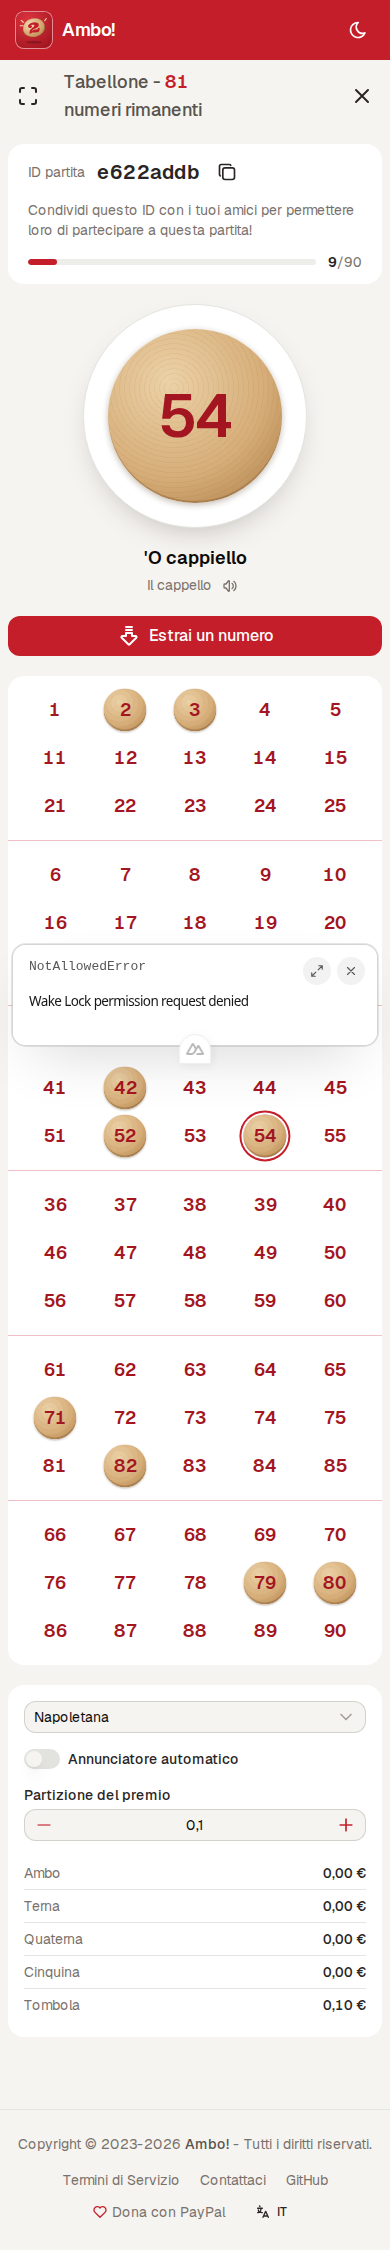
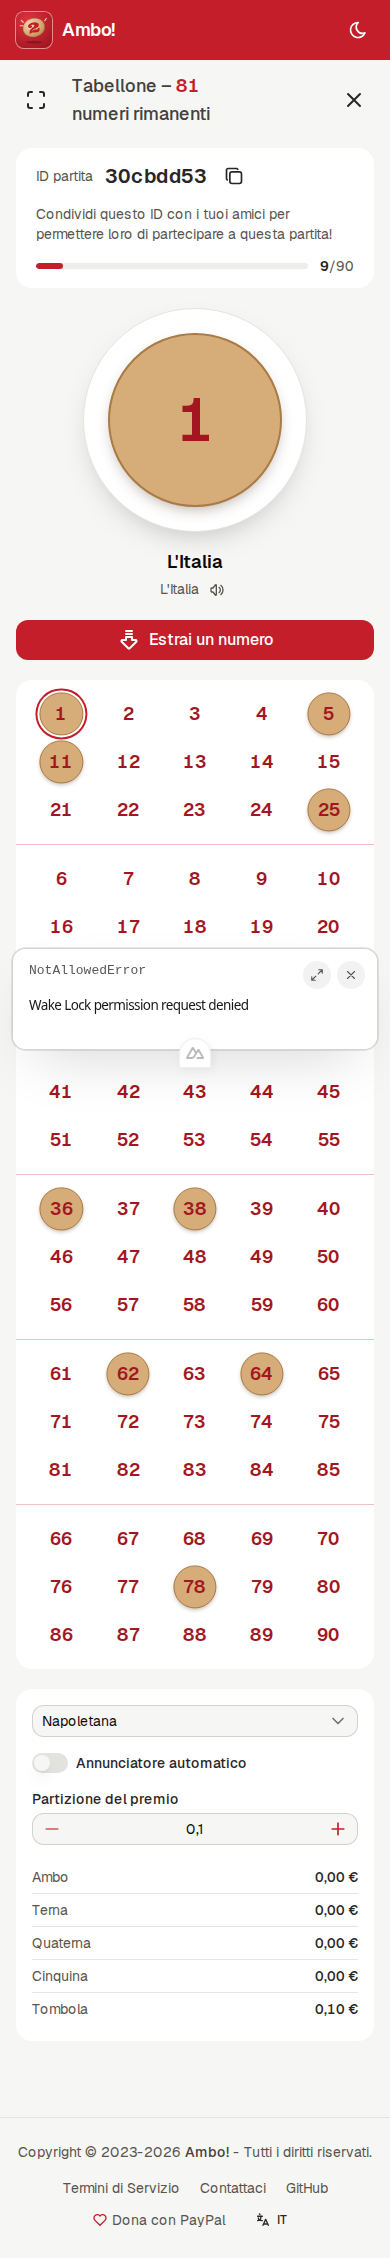
fix: flat beech tokens, neutral ground, contrast and mobile gutters

diff --git a/app/assets/main.css b/app/assets/main.css
@@ -27,7 +27,6 @@
   --color-tombola-950: #3d070b;
 
   /* Beech wood of the numeretti */
-  --color-legno-light: #ecd2a8;
   --color-legno: #d6ad78;
   --color-legno-dark: #a97a45;
 }
@@ -35,14 +34,14 @@
 :root {
   --ui-primary: var(--ui-color-primary-600);
 
-  --ui-text-dimmed: var(--ui-color-neutral-400);
-  --ui-text-muted: var(--ui-color-neutral-500);
-  --ui-text-toned: var(--ui-color-neutral-600);
+  --ui-text-dimmed: var(--ui-color-neutral-500);
+  --ui-text-muted: var(--ui-color-neutral-600);
+  --ui-text-toned: var(--ui-color-neutral-700);
   --ui-text: var(--ui-color-neutral-800);
   --ui-text-highlighted: var(--ui-color-neutral-950);
   --ui-text-inverted: var(--ui-color-neutral-50);
 
-  --ui-bg: #f6f4f0;
+  --ui-bg: #f6f6f4;
   --ui-bg-elevated: #ffffff;
   --ui-bg-muted: #ededea;
   --ui-bg-accented: #e2e2de;
@@ -83,7 +82,7 @@
   --ui-border-muted: #232321;
   --ui-border-inverted: var(--ui-color-neutral-50);
 
-  --print: var(--ui-color-primary-300);
+  --print: var(--ui-color-primary-400);
   --print-line: rgb(228 103 109 / 0.3);
   --hatch: rgb(228 103 109 / 0.1);
   --ring-latest: var(--ui-color-primary-400);
@@ -109,12 +108,11 @@
   border-color: var(--print-line);
 }
 
-/* A turned beech token seen from the top: soft light, faint growth rings, darker edge */
+/* A beech token: flat wood colour, a darker beech edge, a soft cast shadow */
 .legno {
-  background:
-    repeating-radial-gradient(circle at 38% 34%, transparent 0 4px, rgb(120 72 30 / 0.06) 4px 5px),
-    radial-gradient(circle at 35% 30%, var(--color-legno-light), var(--color-legno) 58%, var(--color-legno-dark));
-  box-shadow: inset 0 -2px 0 rgb(90 52 20 / 0.25), 0 2px 6px rgb(60 35 10 / 0.3);
+  background: var(--color-legno);
+  border: 2px solid var(--color-legno-dark);
+  box-shadow: 0 6px 16px -6px rgb(60 35 10 / 0.45);
 }
 
 /* Number states, shared by tabellone and cartelle:
@@ -139,10 +137,9 @@
   aspect-ratio: 1;
   translate: -50% -50%;
   border-radius: 9999px;
-  background:
-    repeating-radial-gradient(circle at 38% 34%, transparent 0 4px, rgb(120 72 30 / 0.06) 4px 5px),
-    radial-gradient(circle at 35% 30%, var(--color-legno-light), var(--color-legno) 58%, var(--color-legno-dark));
-  box-shadow: inset 0 -2px 0 rgb(90 52 20 / 0.25), 0 1px 2px rgb(60 35 10 / 0.3);
+  background: var(--color-legno);
+  border: 1.5px solid var(--color-legno-dark);
+  box-shadow: 0 2px 4px -1px rgb(60 35 10 / 0.35);
   z-index: -1;
   scale: 0;
   transition: scale 0.4s cubic-bezier(0.16, 1, 0.3, 1);
@@ -159,7 +156,7 @@
 }
 
 .numero[data-state="latest"]::before {
-  box-shadow: inset 0 -2px 0 rgb(90 52 20 / 0.25), 0 0 0 2px var(--ui-bg-elevated), 0 0 0 4px var(--ring-latest);
+  box-shadow: 0 0 0 2px var(--ui-bg-elevated), 0 0 0 4px var(--ring-latest);
 }
 
 @media (prefers-reduced-motion: reduce) {

diff --git a/app/pages/cards.vue b/app/pages/cards.vue
@@ -124,7 +124,7 @@ function checkNumber(num: number, check = true) {
       <NuFieldGroup class="w-full">
         <NuInputNumber v-model="searchNumber" size="lg" :min="1" :step="1" :max="90" class="grow"
                        :aria-label="$t('cards.search')" @change="() => numberFound = undefined" />
-        <NuButton icon="i-tabler-search" size="lg" color="neutral" :label="$t('cards.search')" @click="checkNumber(searchNumber)" />
+        <NuButton icon="i-tabler-search" size="lg" color="neutral" variant="outline" :label="$t('cards.search')" @click="checkNumber(searchNumber)" />
       </NuFieldGroup>
       <i18n-t v-if="numberFound !== undefined" class="text-center text-sm" :class="[numberFound ? 'text-success' : 'text-error']"
               :keypath="`cards.${numberFound ? 'found' : 'notFound'}`" tag="p" role="status">

diff --git a/app/app.vue b/app/app.vue
@@ -25,7 +25,7 @@ useHead({
   <NuApp :locale="locales[locale]" :tooltip="{ delayDuration: 300 }"
          :toaster="{ duration: 2000, position: 'bottom-right' }">
     <NuxtLayout name="default">
-      <main class="flex grow flex-col p-2 md:p-4">
+      <main class="flex grow flex-col px-4 py-3 md:p-4">
         <NuxtPage />
       </main>
     </NuxtLayout>

diff --git a/.impeccable/surfaces/app-pages-board-vue.md b/.impeccable/surfaces/app-pages-board-vue.md
@@ -13,12 +13,12 @@ Whole app (home, board, cards, info, error). Mode: Operate (host runs the board 
 
 THESIS: A calm, contemporary tombola app: the game's own objects (the 3x9 cartella grid, the round number token) are the only theme; everything else is quiet product UI. Refuses both the folk-ornament costume (carretto round, rejected by the user as dated) and a generic bingo app.
 
-OWN-WORLD: Neutral warm-grey ground (#f6f6f4 light, #0f0f0e dark), white or near-black elevated panels with 1px hairlines and 16px radius, tombola red #c41e2a as the brand: red header bar, primary buttons, progress, and the red print of cartelle and tabellone (numerals and grid lines); drawn/marked numbers are turned beech-wood tokens with red numerals. Geist for everything, semibold tabular numerals. Empty cartella cells carry a faint red diagonal hatch.
+OWN-WORLD: Neutral warm-grey ground (#f6f6f4 light, #0f0f0e dark), white or near-black elevated panels with 1px hairlines and 16px radius, tombola red #c41e2a as the brand: red header bar, primary buttons, progress, and the red print of cartelle and tabellone (numerals and grid lines); drawn/marked numbers are flat beech tokens (#d6ad78, darker beech edge, soft cast shadow) with red numerals; no faked grain. Logo: .impeccable/mocks/logo/1a-ultra.svg, approved by the user ("go with 1A"), ships as public/logo.svg. Geist for everything, semibold tabular numerals. Empty cartella cells carry a faint red diagonal hatch.
 
 STORY: The host reads the drawn number and its smorfia line from across the room, sees progress and prize split; players mark their cartelle and see the last five draws.
 
 FIRST VIEWPORT: Board: slim header; game-ID strip with copy/share and a thin 9/90 progress bar; left the large wooden draw token, smorfia line, Estrai button; centre the tabellone as one panel split into six blocks by hairlines; right the smorfia select, announcer switch and prize split. Signature: the drawn token rolls in (quarter turn, settle); reduced motion fades.
 
-FORM: user-steered after rejection of the pinned carretto direction ("tombola feel, but not that much… minimalistic, something actual"); seed: d08dc0a2ad92fb9a
+FORM: user-steered after rejection of the pinned carretto direction ("tombola feel, but not that much… minimalistic, something actual"); seed:d08dc0a2ad92fb9a
 
 FINISH: unreviewed and undocumented is unfinished; this build ends with the finish review, the verdict, DESIGN.md, and every shipping raster carrying its provenance
